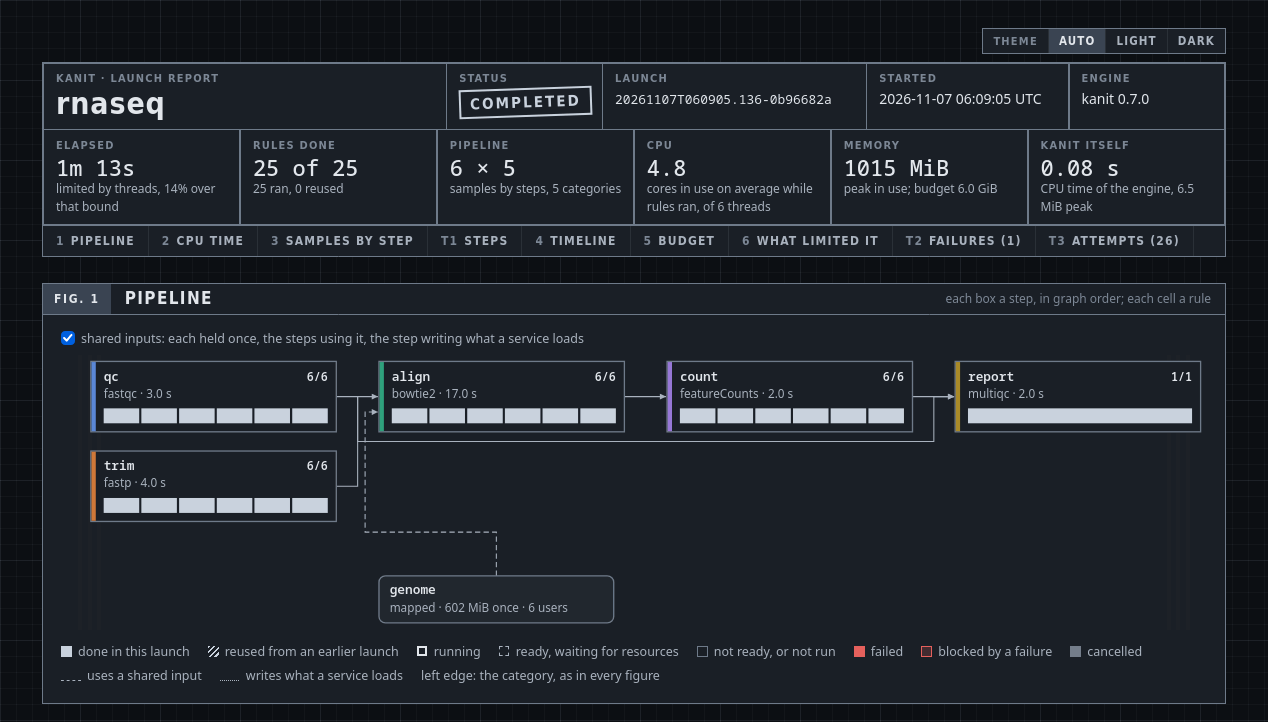
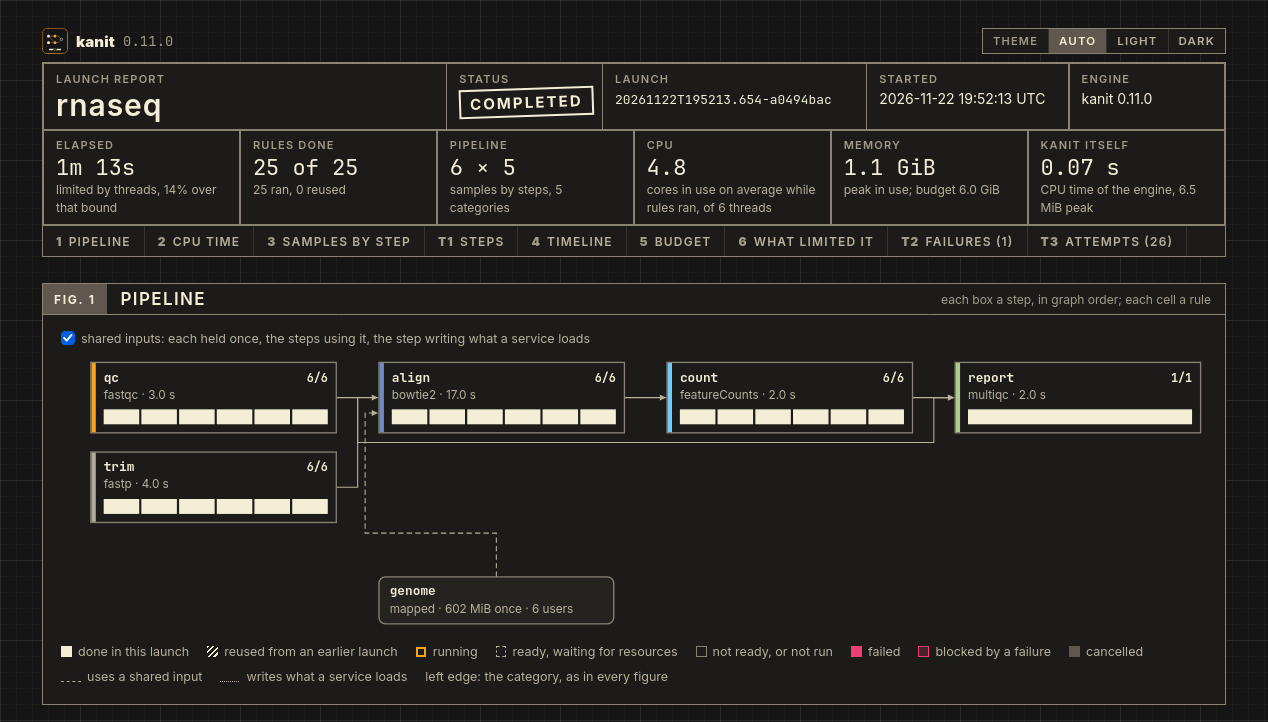
style: give the html report the toolchain theme

diff --git a/src/templates/report.css b/src/templates/report.css
@@ -1,8 +1,8 @@
-/* The launch page's style sheet, after its theme: workz sets the colors of
-   .page, light or dark, from tokens in html.zig and prints in light. */
-:root{--mono:"JetBrains Mono","IBM Plex Mono",ui-monospace,SFMono-Regular,Menlo,Consolas,"DejaVu Sans Mono",monospace;
---sans:"IBM Plex Sans",system-ui,-apple-system,"Segoe UI",sans-serif;
---label:"Barlow Condensed","Roboto Condensed","Arial Narrow","DejaVu Sans Condensed",system-ui,sans-serif}
+/* The launch page's style sheet, after its theme: kanit sets the colors of
+   .page, light or dark, from tokens in html.zig and prints in light. The
+   faces are the Zenteomics ones when installed, else the system's. */
+:root{--mono:"JetBrains Mono",ui-monospace,SFMono-Regular,Menlo,Consolas,"DejaVu Sans Mono",monospace;
+--sans:"Inter",system-ui,-apple-system,"Segoe UI",sans-serif;--label:var(--sans)}
 *{box-sizing:border-box}
 body{margin:0}.pick{position:absolute;opacity:0;width:1px;height:1px;margin:0}
 .page{min-height:100vh;color:var(--ink);font:14px/1.5 var(--sans);background-color:var(--paper);
@@ -17,12 +17,13 @@ code,.mono{font-family:var(--mono);font-size:.92em}
 h1{font:600 30px/1.1 var(--label);letter-spacing:.03em;margin:0;overflow-wrap:anywhere}
 .big{font:500 22px/1.15 var(--mono);white-space:nowrap}.sub{font-size:12px;color:var(--ink2)}
 .stamp{display:inline-block;font:700 15px/1 var(--label);letter-spacing:.14em;text-transform:uppercase;padding:5px 9px;border:2px solid currentColor;transform:rotate(-2deg)}
-.s-ok{color:var(--done)}.s-fail{color:var(--fail)}.s-run{color:var(--ink)}.s-cancel{color:var(--muted)}
+.s-ok{color:var(--done)}.s-fail{color:var(--fail)}.s-run{color:var(--run)}.s-cancel{color:var(--muted)}
 .error{background:var(--sheet);border:1.5px solid var(--fail);border-top:0;padding:8px 12px;color:var(--fail)}
 nav{display:flex;flex-wrap:wrap;align-items:stretch;border:1.5px solid var(--rule);border-top:0;background:var(--sheet)}
 nav a{font:600 12px/1 var(--label);letter-spacing:.1em;text-transform:uppercase;color:var(--ink2);text-decoration:none;padding:9px 13px;border-right:1px solid var(--hair)}
 nav a:hover{color:var(--ink);background:var(--wash)}nav a b{color:var(--muted);margin-right:6px}
-.corner{display:flex;justify-content:flex-end;margin:0 0 8px}.theme{display:flex;align-items:center;border:1px solid var(--rule);background:var(--sheet)}
+.corner{display:flex;justify-content:space-between;align-items:center;margin:0 0 8px}
+.brand{display:flex;align-items:center;gap:8px;font:600 15px/1 var(--sans);letter-spacing:.01em;color:var(--ink);text-decoration:none}.brand:hover b{text-decoration:underline}.brand img{display:block}.brand .mono{font-weight:400;color:var(--muted)}.theme{display:flex;align-items:center;border:1px solid var(--rule);background:var(--sheet)}
 .theme .k{margin:0;padding:0 10px}
 .theme label{font:600 11.5px/1 var(--label);letter-spacing:.1em;text-transform:uppercase;color:var(--ink2);padding:6px 10px;border-left:1px solid var(--hair);cursor:pointer}
 .theme label:hover{color:var(--ink);background:var(--wash)}
@@ -44,11 +45,11 @@ svg{display:block;width:100%;height:auto;font-family:var(--sans)}svg text{fill:v
 .g1{fill:var(--c1);background:var(--c1)}.g2{fill:var(--c2);background:var(--c2)}.g3{fill:var(--c3);background:var(--c3)}
 .g4{fill:var(--c4);background:var(--c4)}.g5{fill:var(--c5);background:var(--c5)}.g6{fill:var(--c6);background:var(--c6)}
 .g7{fill:var(--c7);background:var(--c7)}.g8{fill:var(--c8);background:var(--c8)}.g0{fill:var(--c0);background:var(--c0)}
-.box{fill:var(--sheet);stroke:var(--rule);stroke-width:1.25}.box.active{stroke:var(--ink);stroke-width:2.25}.box.bad{stroke:var(--fail);stroke-width:2.25}
+.box{fill:var(--sheet);stroke:var(--rule);stroke-width:1.25}.box.active{stroke:var(--run);stroke-width:2.25}.box.bad{stroke:var(--fail);stroke-width:2.25}
 .wire{fill:none;stroke:var(--ink2);stroke-width:1}.arrow{fill:var(--ink2)}
 svg text.t-name{font:600 12px var(--mono);fill:var(--ink)}svg text.t-sub{font-size:11px;fill:var(--ink2)}svg text.t-count{font:600 11px var(--mono);fill:var(--ink)}
 .st-completed{fill:var(--done);background:var(--done)}.st-reused{fill:url(#hatch);background:repeating-linear-gradient(135deg,var(--done) 0 1.5px,transparent 1.5px 4px)}
-.st-running{fill:var(--sheet);stroke:var(--ink);stroke-width:2.5;background:var(--sheet);outline:2.5px solid var(--ink);outline-offset:-2.5px}.st-stopping{fill:var(--cancel);background:var(--cancel)}
+.st-running{fill:var(--sheet);stroke:var(--run);stroke-width:2.5;background:var(--sheet);outline:2.5px solid var(--run);outline-offset:-2.5px}.st-stopping{fill:var(--cancel);background:var(--cancel)}
 .st-waiting{fill:var(--sheet);stroke:var(--ink2);stroke-width:1.25;stroke-dasharray:2.5 1.5;background:var(--sheet);outline:1.25px dashed var(--ink2);outline-offset:-1.25px}
 .st-pending,.st-not_run{fill:var(--sheet);stroke:var(--pend);stroke-width:1;background:var(--sheet);outline:1px solid var(--pend);outline-offset:-1px}
 .st-failed{fill:var(--fail);background:var(--fail)}.st-blocked{fill:var(--fail);fill-opacity:.2;stroke:var(--fail);stroke-width:1;background:color-mix(in srgb,var(--fail) 20%,transparent);outline:1px solid var(--fail);outline-offset:-1px}
@@ -83,7 +84,7 @@ td.name small,small.sub{display:block;font-family:var(--sans);font-size:12px;col
 .matrix td.failed{background:var(--fail);color:var(--fail-ink)}.matrix td.cancelled{background:var(--cancel);color:var(--ink)}.matrix td.solo{background:var(--q2)}
 .matrix td.slow{box-shadow:inset 0 0 0 2px var(--sheet),inset 0 0 0 3.5px var(--ink)}
 .matrix td.reused{background-image:repeating-linear-gradient(135deg,rgba(255,255,255,.35) 0 1.5px,transparent 1.5px 5px)}
-.matrix td.running{background:var(--sheet);color:var(--ink);box-shadow:inset 0 0 0 2.5px var(--ink)}.matrix td.waiting{outline:1.25px dashed var(--ink2);outline-offset:-2px}
+.matrix td.running{background:var(--sheet);color:var(--ink);box-shadow:inset 0 0 0 2.5px var(--run)}.matrix td.waiting{outline:1.25px dashed var(--ink2);outline-offset:-2px}
 .scale{display:inline-flex;gap:2px;vertical-align:-2px;margin:0 6px 0 2px}.scale i{width:14px;height:10px;margin:0}
 .strip{width:192px;height:26px;display:block}.strip circle{fill:var(--q5);stroke:var(--sheet);stroke-width:2}
 .strip circle.slow{fill:var(--sheet);stroke:var(--ink);stroke-width:2}.strip .med{stroke:var(--ink);stroke-width:2}.strip text{font-size:9.5px}
@@ -94,9 +95,10 @@ pre{margin:0;padding:11px 13px;background:var(--wash);font:12px/1.5 var(--mono);
 .failure pre{border-top:1px solid var(--hair)}
 .failure .diag{margin:0;padding:7px 13px 0;border-top:1px solid var(--hair);color:var(--muted);font-size:12px}.failure .diag+pre{border-top:0}
 footer{color:var(--muted);font:600 11px/1.6 var(--label);letter-spacing:.1em;text-transform:uppercase;text-align:right;margin-top:16px}
+footer a{color:var(--ink2);text-decoration:none}footer a:hover{color:var(--ink);text-decoration:underline}
 @media (max-width:900px){.r1,.r2{grid-template-columns:1fr 1fr}.r1>.cell:last-child{grid-column:1/-1}}
 @media print{
-.page{background:#fff}main{max-width:none;padding:0}nav,.corner{display:none}
+.page{background:#fff}main{max-width:none;padding:0}nav,.theme{display:none}
 .fig,.failure{break-inside:avoid}.scroll{max-height:none;overflow:visible;border:0}pre{max-height:none}
 .wide{background:none}*{-webkit-print-color-adjust:exact;print-color-adjust:exact}}
 @page{size:A4 landscape;margin:12mm}

diff --git a/wiki/Reports.md b/wiki/Reports.md
@@ -284,6 +284,11 @@ Figures 1 to 3 and Table 1 cover the pipeline, so a launch that reused rules sti
 
 Every launch also keeps this page as `report.html` in its launch directory: `run` draws it as the launch starts, at least 15 s between drawings while it runs, and once more at the end ([Running workflows](Running-Workflows.md#starting-a-launch)). On a large launch it waits at least twenty times the preceding draw's duration. While the launch runs, the page reloads itself every 15 s; the final page stops reloading. `kanit report --format html` draws the same page on demand, for any launch. Reload manually for an earlier update, or use `kanit watch` for faster progress. A theme picked on a page that reloads itself lasts only while the browser keeps the page's form state; the reader's color scheme is the lasting choice.
 
+<picture>
+  <source media="(prefers-color-scheme: dark)" srcset="images/report-live-dark.webp">
+  <img src="images/report-live-light.webp" alt="The top of the live report page while a launch runs, drawn with kanit report every two seconds and shown at about ten times its speed: the status stamp reads running in amber, the counts and elapsed time rise, the cells of each step fill as its rules finish, with running rules outlined in amber, and at the end the stamp reads completed with all 25 rules done." width="640">
+</picture>
+
 Running cells and bars are marked by steady outlines, without animation, and printing the page includes every figure. The CPU and memory charts draw every five-second run sample.
 
 For a small runnable demonstration, use `examples/report-tour/` in the repository. Its three rules produce completed, reused and failed-launch pages; optional live mode adds two six-second waits so the resource charts have samples. The tour's README explains the figures, limits and output files.

diff --git a/CHANGELOG.md b/CHANGELOG.md
@@ -4,6 +4,14 @@
 
 All notable changes to kanit are documented in this file. Versions up to 0.6.0 were released under the name workz. Versions follow [Semantic Versioning](https://semver.org/): before 1.0, a minor version may change the workflow format, the records under `.kanit/` and the command line, and each version says first what such a change needs from you.
 
+## [Unreleased]
+
+kanit's report and live view take the Zenteomics look: the kanit mark, its colors and its type.
+
+### Changed
+
+- The HTML report draws in the Zenteomics colors, light and dark, sets its text in Inter and JetBrains Mono where they are installed, and outlines running rules in amber; the kanit icon and the engine's version head the page, link to the project and serve as its favicon, and the footer links to the project, its guide, the page's reference and Zenteomics.
+
 ## [0.11.0] - 2026-11-15
 
 The rename to kanit reaches the records, the variables and the Zig module, without losing a record or rerunning a rule, and each attempt gets a scratch directory that `clean` removes.

diff --git a/README.md b/README.md
@@ -47,6 +47,16 @@ It is one executable, with no daemon and no database: everything it knows is in 
 
 </details>
 
+<details>
+<summary>The live report page</summary>
+
+<picture>
+  <source media="(prefers-color-scheme: dark)" srcset="wiki/images/report-live-dark.webp">
+  <img src="wiki/images/report-live-light.webp" alt="The top of the live report page while a launch runs, drawn with kanit report every two seconds and shown at about ten times its speed: the status stamp reads running in amber, the counts and elapsed time rise, the cells of each step fill as its rules finish, with running rules outlined in amber, and at the end the stamp reads completed with all 25 rules done." width="640">
+</picture>
+
+</details>
+
 ## A workflow
 
 A workflow is a TOML file of rules. Each rule names the files it reads and writes, one shell command and its request:
